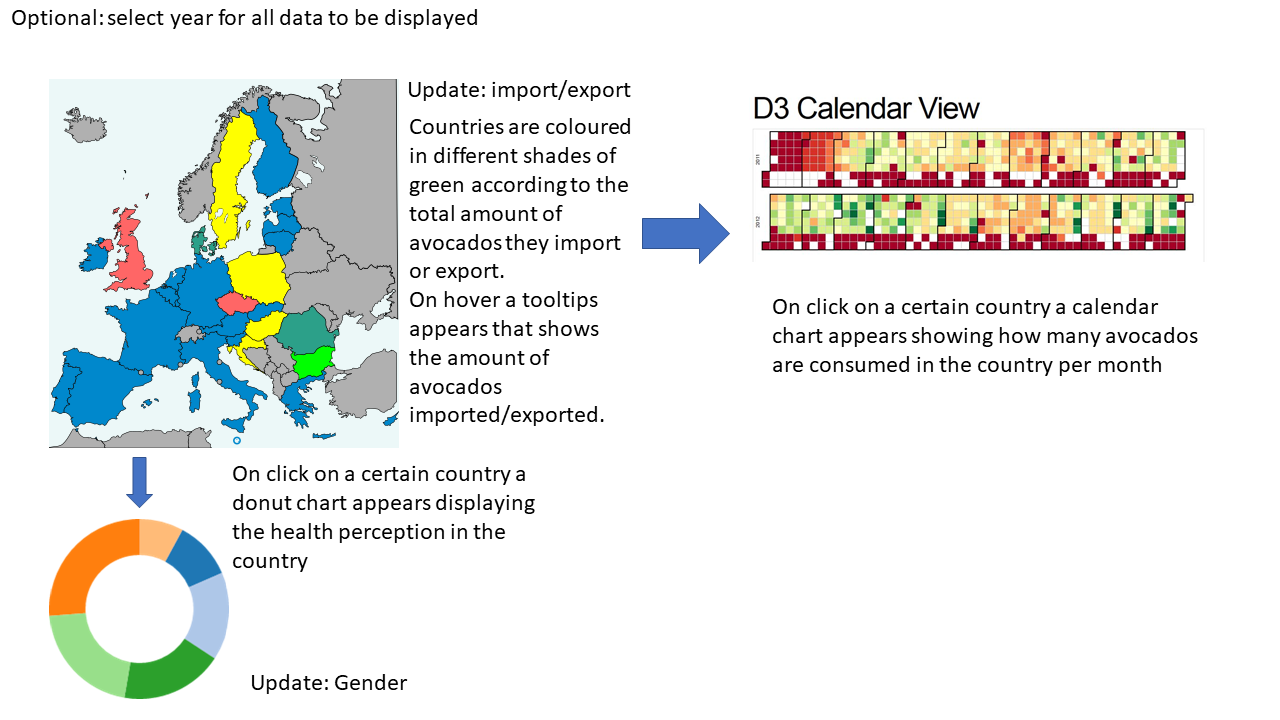
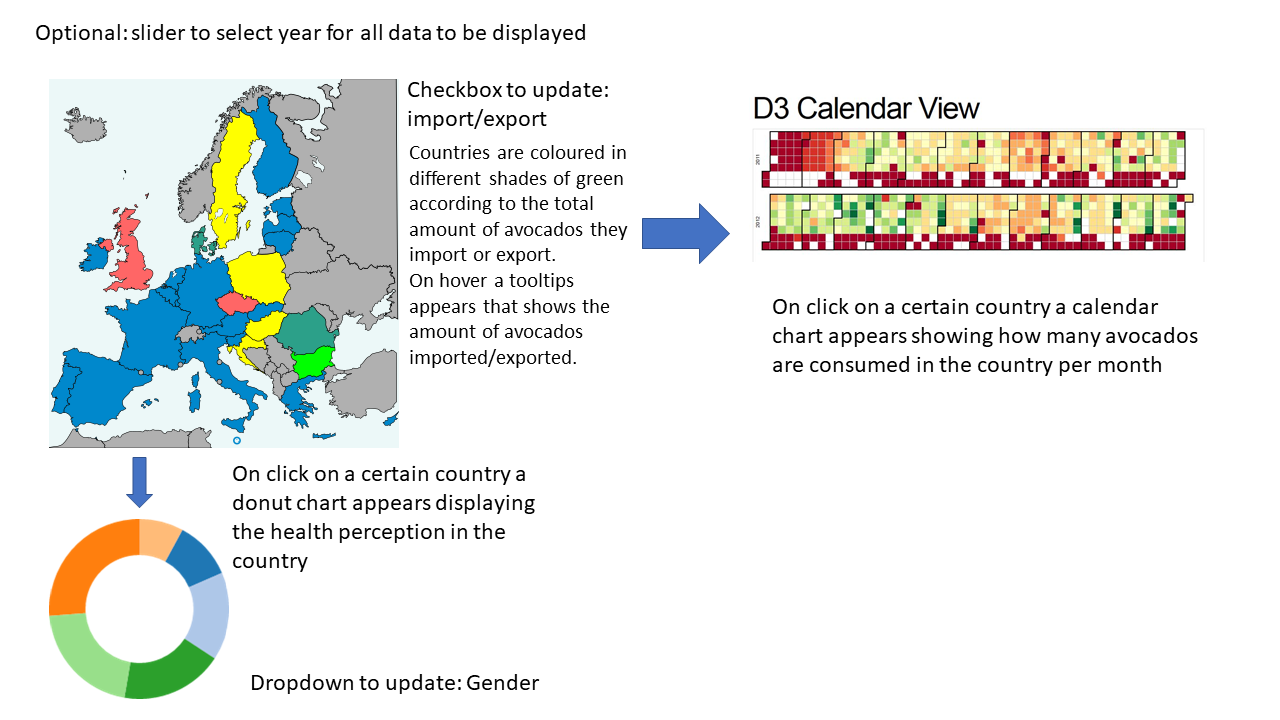
design

Changed region(s): [[0.3125, 0.0917, 0.5, 0.6111], [0.0, 0.0, 0.4688, 0.0611], [0.1875, 0.9167, 0.4062, 0.9778]]

diff --git a/README.md b/README.md
@@ -10,7 +10,7 @@ This project aims to visualize the amount of avocados imported and exported in E
 
 # Features
 
-The webpage is initialized with a map of Europe. On this map the countries are coloured in different shades of green, reflecting the amount of avocados the country imports/exports (what is shown depends on what is selected from a dropdown menu) . On hovering over a country the exact amount of avocados imported/exported is shown. On click two new graphs appear. A calender view shows how many avocados where consumed each month. The second chart that appears is a donut chart displaying the health perception. This chart can be updated according to gender. All these features will be part of the minimum viable product, an extra feature that might be added later is a slider to select the year of which data will be displayed.
+The webpage is initialized with a map of Europe. On this map the countries are coloured in different shades of green, reflecting the amount of avocados the country imports/exports (what is shown depends on what is selected from a checkbox). On hovering over a country the exact amount of avocados imported/exported is shown. On click two new graphs appear. A calender view shows how many avocados where consumed each month. The second chart that appears is a donut chart displaying the health perception. This chart can be updated according to gender using a dropdown menu. All these features will be part of the minimum viable product, an extra feature that might be added later is a slider to select the year of which data will be displayed.
 
 # Sketch
 ![sketch](doc/sketch.PNG)

diff --git a/DESIGN.md b/DESIGN.md
@@ -1,0 +1,22 @@
+# Design
+
+# Data sources
+
+## Map: import/export
+Data on the monthly avocado import and export is available on http://epp.eurostat.ec.europa.eu/. Datasets are available per country per month, I have merged these datasets together in one dataset because I think that is easier to use. The dataset needs to be converted from a CSV to a JSON for use in Javascript.
+
+## Calander view: monthly consumption per person
+A countries import - export is used as a measure of avocado consumption as this is the amount of avocados that remains in the country. The dataset used for the map will be used for this part as well. To calculate the consumption per person, a dataset containing the population size of the European country is used. Montly consumption per person is calculated as the following: (import - export) / population size. The dataset needs to be converted from a CSV to a JSON for use in Javascript.
+population data: http://appsso.eurostat.ec.europa.eu/nui/show.do?dataset=demo_pjan&lang=en
+
+## Donut chart: health perception per gender
+This information is all available in one dataset, it only needs to be converted from a CSV to a JSON.
+health perception data: http://stats.oecd.org/#
+
+# Diagram
+
+![sketch](doc/diagram.PNG)
+
+# Components
+
+# D3 plugins
